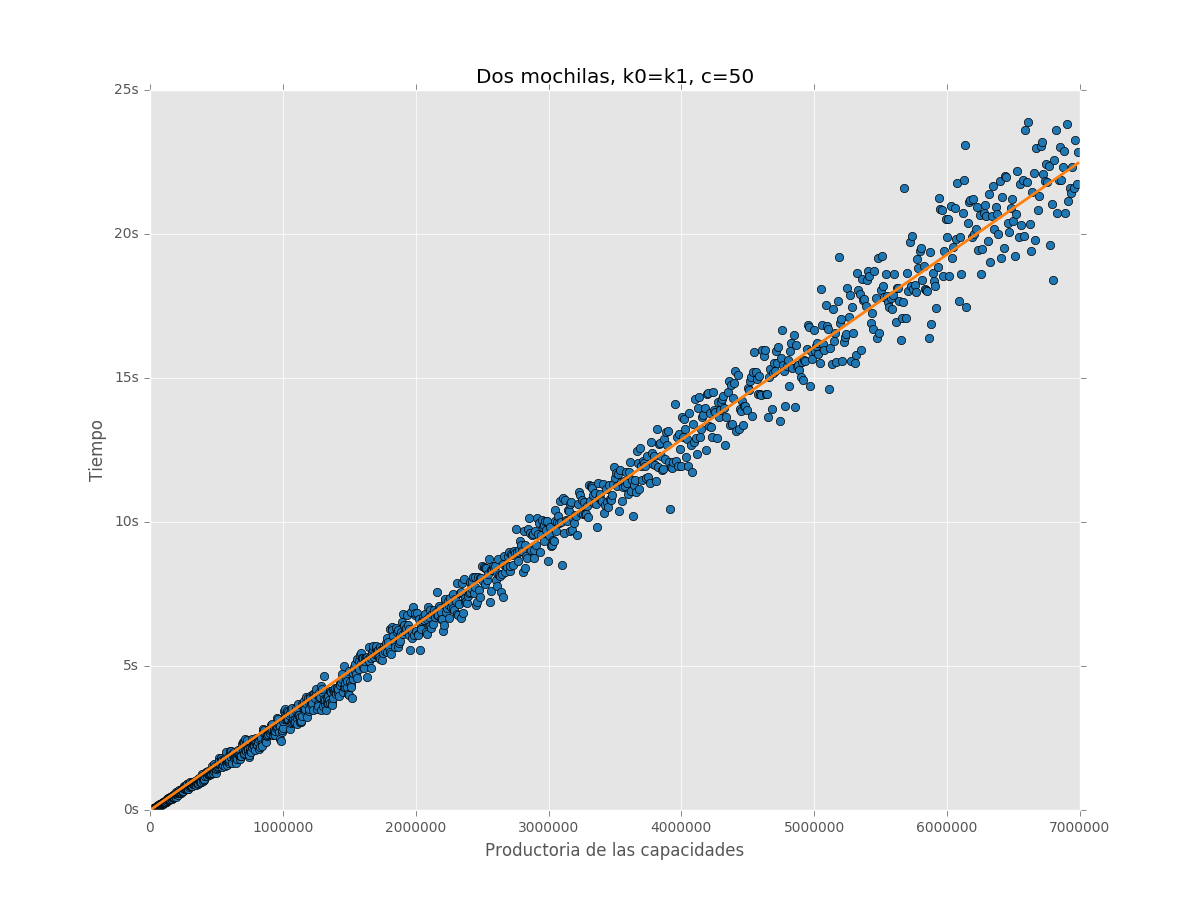
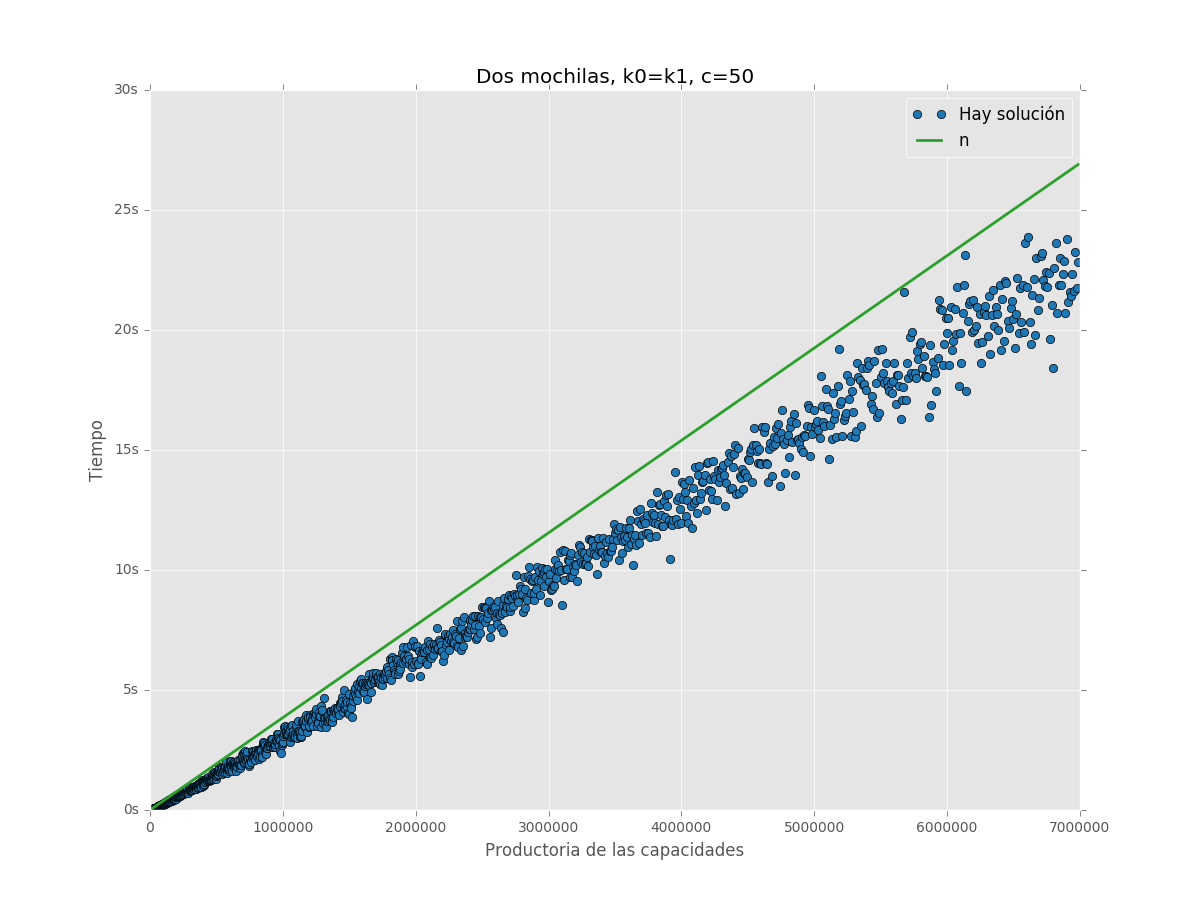
tp1 - arreglar los gráficos

diff --git a/tp1/tools/grapher.py b/tp1/tools/grapher.py
@@ -21,6 +21,7 @@ class Grapher:
 
     def __init__(self):
         plt.style.use('ggplot')
+        self.colors = {}
 
     def run(self, args):
 
@@ -46,7 +47,10 @@ class Grapher:
 
             if args.mode == 'sum':
                 x = sum(values)
-
+            elif args.mode == 'prod':
+                x = 1
+                for v in values:
+                    x *= v
             elif args.mode == 'simple':
                 if len(values) != len(args.modevars):
                     print('Incorrect number of variables for mode "simple", expected',
@@ -126,6 +130,7 @@ class Grapher:
         pointsSet = {k: [(x,float(y)/scale) for x,y in points]
                         for k,points in pointsSet.items()}
         maxY = float(maxY)/scale
+        graphScale = scale
 
         # Plot the data
         fig, ax = plt.subplots()
@@ -135,8 +140,13 @@ class Grapher:
             xs = [x for x,y in points]
             ys = [y for x,y in points]
 
-            ax.plot(xs, ys, 'o', color=self.COLORS[k*6 % len(self.COLORS)],
-                    label= "Hay solución" if k == 0 else "No hay solución")
+            if k in args.statusname:
+                label = args.statusname[k]
+            else:
+                label = "Hay solución" if k == 0 else "No hay solución"
+
+            ax.plot(xs, ys, 'o', color=self.getColor(k),
+                    label=label)
 
         if args.polyfit is not None and 0 in pointsSet:
             xs = [x for x,y in pointsSet[0]]
@@ -159,8 +169,21 @@ class Grapher:
 
             fit = lambda x : scaleback(sum([a * x**(args.fitdegree-i)
                                  for (i,a) in enumerate(coef)]))
-            ax.plot(xs, [fit(x) for x in xs], color=self.COLORS[2],
+            ax.plot(xs, [fit(x) for x in xs], color=self.getColor("poly"),
                     linewidth=2)
+
+        if len(args.line):
+            xs = [x for points in pointsSet.values() for x,y in points]
+            xs.sort()
+            for (i,line) in enumerate(args.line):
+
+                label = line[1] if len(line) > 1 else None
+
+                # Fishy
+                fn = eval('lambda x: '+line[0], math.__dict__)
+                ax.plot(xs, [float(fn(x))*1e9/graphScale for x in xs],
+                        color=self.COLORS[(4+i*4) % len(self.COLORS)],
+                        linewidth=2, label=label)
 
         ax.set_title(args.title)
         ax.set_xlabel(args.xlabel)
@@ -169,18 +192,24 @@ class Grapher:
         ax.set_yscale(args.yscale)
         ax.set_ylim(ymin=0)
 
-        if len(pointsSet) > 1:
+        if len(pointsSet) > 1 or len(args.line):
             ax.legend(loc='best')
 
         ax.yaxis.set_major_formatter(mticker.FormatStrFormatter('%g'+unit))
 
         fig.savefig(args.outfile, format='png')
 
+    def getColor(self, id):
+        if not id in self.colors:
+            i = len(self.colors) * 2
+            self.colors[id] = self.COLORS[i % len(self.COLORS)]
+        return self.colors[id]
+
 if __name__ == "__main__":
 
     class ValidateMode(argparse.Action):
         def __call__(self, parser, args, values, option_string=None):
-            valid_modes = ('sum', 'simple')
+            valid_modes = ('sum', 'prod', 'simple')
             mode = values[0]
             if mode not in valid_modes:
                 raise ValueError('invalid mode %s' % subject)
@@ -204,11 +233,17 @@ if __name__ == "__main__":
             help='draw the best polynomial fit')
     parser.add_argument('-F','--fitdegree', default=1,
             type=int,help='degree of the polynomial fit')
+    parser.add_argument('-L','--line', type=str, nargs='+',
+            default=[], metavar=('FN', 'LABEL'), action='append',
+            help='draw a function of X written in python')
     parser.add_argument('-e','--exitstatus', nargs='+',
             type=int, action='append', default=[],
-            help='use datapoints with exit status N')
+            help='only use datapoints with exit status N')
+    parser.add_argument('-E','--statusname', nargs='+',
+            type=str, action='append', default=[],
+            help='label of each exitstatus selected via -e. Implies colorization')
     parser.add_argument('-C','--colorize', action='store_true', default=False,
-            help='enable/disable using diferent colors for each exitstatus')
+            help='use diferent colors for each exitstatus')
 
     parser.add_argument('-i', help='input file', nargs='?',
             type=argparse.FileType('r'),
@@ -218,7 +253,10 @@ if __name__ == "__main__":
             default=sys.stdout, dest='outfile')
 
     parser.add_argument('-m','--mode', nargs='+', default=('sum',[]),
-            action=ValidateMode, metavar=('MODE', 'ARGS'), help='TODO')
+            action=ValidateMode, metavar=('MODE', 'ARGS'),
+            help='sum: use the sum of the variables as x value (default)\n' +
+                 'prod: use the product of the variables as x value\n' +
+                 'simple "* *>0 5 <10": use only the desired value for each variable')
 
     args = parser.parse_args()
 
@@ -226,6 +264,10 @@ if __name__ == "__main__":
                     else args.mode[1]
     args.mode = args.mode[0]
     args.exitstatus = [x for l in args.exitstatus for x in l] # Flatten
+    args.statusname = [x for l in args.statusname for x in l] # Flatten
+    args.statusname = {x:s for (x,s) in zip(args.exitstatus,args.statusname)}
+    if len(args.statusname):
+        args.colorize = True
 
     g = Grapher()
     g.run(args)
